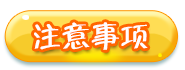
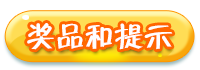
fix ui

diff --git a/activity/finddiff/views/notice.html b/activity/finddiff/views/notice.html
@@ -7,7 +7,19 @@
 {% endblock %}
 
 {% block content %}
-    <div id="finddiff-entry" class="finddiff-layer layer-show">
+    <div id="finddiff-notice" class="finddiff-layer layer-show">
+        <div class="notice-wrap hightlight-notice-wrap content-wrap">
+            <div class="label-wrap">
+                <img src="/public/images/notice-label2.png?__inline" class="label" title="如何发奖">
+            </div>
+            <ol>
+                <li>排名前5名的优粉可获赠由优购时尚商城发出的<strong>1000元</strong>礼品卡一张；</li>
+                <li>排名第6名至第10名的优粉可获赠由优购时尚商城发出的<strong>500元</strong>礼品卡一张；</li>
+                <li>排名第11名至第30名的优粉可获赠由优购时尚商城发出的<strong>300元</strong>礼品卡一张；</li>
+                <li>排名第31名至第200名的优粉可获赠由优购时尚商城提供的<strong>50元</strong>礼品卡一张；</li>
+                <li>排名第201名至第350名的优粉可获赠由优购时尚商城提供的<strong>30元</strong>礼品卡一张。</li>
+            </ol>
+        </div>
         <div class="notice-wrap content-wrap">
             <div class="label-wrap">
                 <img src="/public/images/notice-label1.png?__inline" class="label" title="注意事项">
@@ -20,18 +32,6 @@
                 <li>参与者的最高分记录将被自动保存；</li>
                 <li>任何人均可发起游戏。关注优购公众账号（iyougou），在对话框中输入“品牌大作战”即可；</li>
                 <li>本活动的最终解释权归优购时尚商城所有。</li>
-            </ol>
-        </div>
-        <div class="notice-wrap content-wrap">
-            <div class="label-wrap">
-                <img src="/public/images/notice-label2.png?__inline" class="label" title="如何发奖">
-            </div>
-            <ol>
-                <li>排名前5名的优粉可获赠由优购时尚商城发出的<strong>1000元</strong>礼品卡一张；</li>
-                <li>排名第6名至第10名的优粉可获赠由优购时尚商城发出的<strong>500元</strong>礼品卡一张；</li>
-                <li>排名第11名至第30名的优粉可获赠由优购时尚商城发出的<strong>300元</strong>礼品卡一张；</li>
-                <li>排名第31名至第200名的优粉可获赠由优购时尚商城提供的<strong>50元</strong>礼品卡一张；</li>
-                <li>排名第201名至第350名的优粉可获赠由优购时尚商城提供的<strong>30元</strong>礼品卡一张。</li>
             </ol>
         </div>
     </div>
